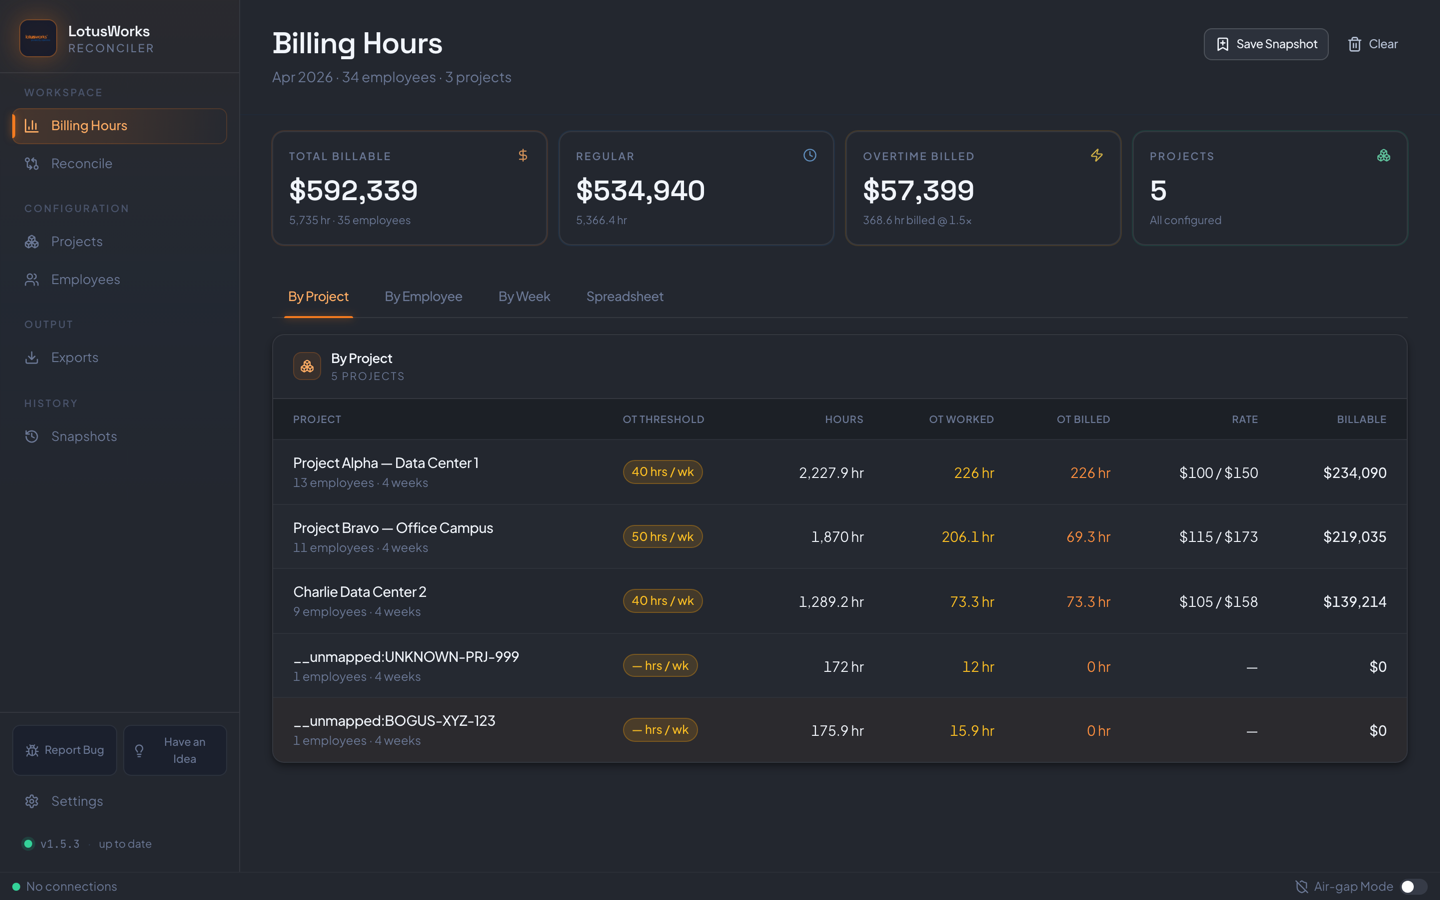
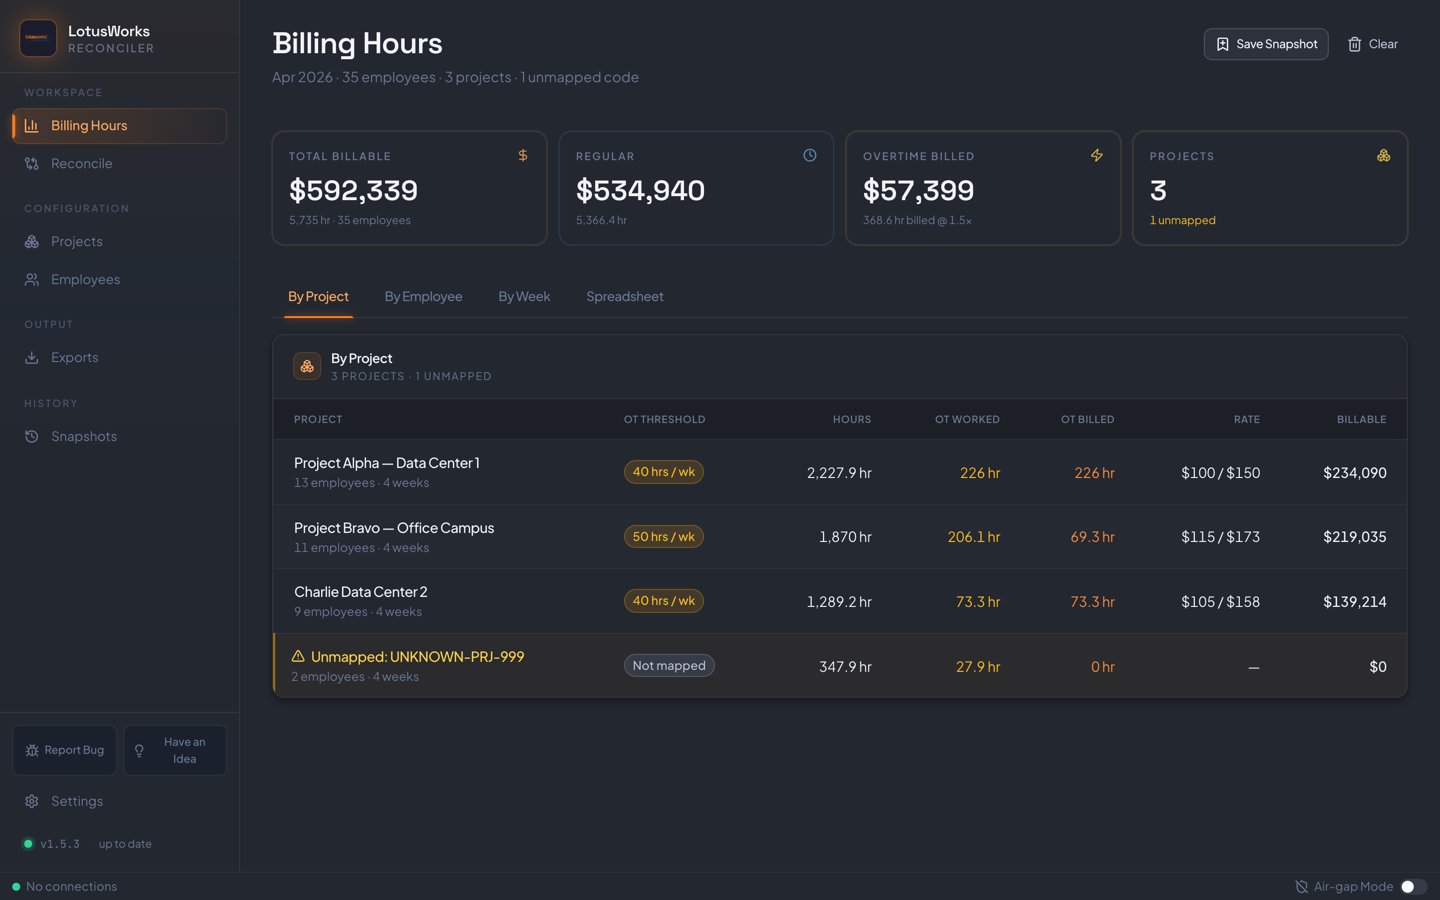
Update README and screenshot

diff --git a/README.md b/README.md
@@ -13,7 +13,7 @@ The billing data can be viewed by project, by employee, by week, or as one flat 
 - Reads the Excel export without a fixed template. It scans the first rows of the sheet, scores each one against known column names (employee code, legal first/last name, regular/OT/DT hours, allocation), and uses the best match as the header row.
 - Parses timesheet PDFs with pdf.js text extraction into week / allocation code / hours entries. Each entry keeps a confidence score and the page it came from, so a number can be traced back to the PDF.
 - Cross-checks the two sources and flags employees who appear in only one of them, monthly totals that differ by more than 0.1 h (shown as info instead of a warning when fewer than four weeks of PDFs are loaded), and allocation codes that don't map to a project.
-- Maps allocation codes to projects by exact alias first, then by code family (all `ABC-*` codes) when only one project claims that family.
+- Maps allocation codes to projects by exact alias first, then by code family (all `ABC-*` codes) when only one project claims that family. Hours on a code that still doesn't match are kept as $0 rows labelled "Unmapped: CODE" instead of being dropped, and the Projects tile counts them until they're mapped.
 - Splits each employee/project/week bucket into regular, OT and double time at that project's thresholds. Rates fall back from a per-project employee override, to the employee's default rate, to the project default, with OT at 1.5x and DT at 2x unless overridden.
 - Exports an invoice PDF per client (pdf-lib), an Excel workbook with a summary sheet and one tab per project (ExcelJS), CSV, and a JSON backup. Project and employee rate cards can be imported and exported as CSV.
 
@@ -46,17 +46,19 @@ There's also a hosted copy at https://noahfgarrett.github.io/FinanceReconciliati
 No real payroll data is in the repo. To get something to import:
 
 ```bash
-npx tsx test-data/generate.ts
+npm run sample-data   # needs Node 22.6+ (runs the TypeScript file directly)
 ```
 
-This writes a monthly Excel export, a folder of weekly timesheet PDFs and a client hours log to `test-data/output/` (gitignored). The projects and people in it are made up. The set includes deliberate problems: hour mismatches, employees missing from one source, wrong allocation codes, extra overtime and duplicate weeks. The screenshot above is that data after import.
+This writes a monthly Excel export, a folder of weekly timesheet PDFs and a client hours log to `test-data/output/` (gitignored). The projects and people in it are made up. The set includes deliberate problems: hour mismatches, an employee who is only in the PDFs, an allocation code that belongs to no project, extra overtime and duplicate weeks. The screenshot above is that data after import, with the unknown code showing up as the last row.
 
 ## Tests
 
 ```bash
 npm test          # Vitest: parsers, reconciliation, OT and rate logic, persistence
 npm run lint      # ESLint with --max-warnings=0
-npm run e2e       # Playwright
+npm run e2e       # Playwright (Chromium)
 ```
 
-The Playwright suite runs against the hosted copy by default. Set `RECON_BASE_URL` / `RECON_PAGE_URL` to point it at a local server. The full import test only runs when `RECON_XLSX` and `RECON_PDF_DIR` point at real files.
+`npm run e2e` generates the sample data if it's missing, builds the app, serves it with `vite preview` and imports the data through the setup wizard. It then checks the Billing Hours views and the CSV and Excel exports. Set `RECON_BASE_URL` to run it against a server that's already up. `RECON_VISUAL_SWEEP=1 npx playwright test visualSweep` captures screenshots of every page in both themes for manual review.
+
+GitHub Actions (`.github/workflows/ci.yml`) runs lint, typecheck, unit tests, the build and the Playwright suite on pushes to main and on pull requests.
